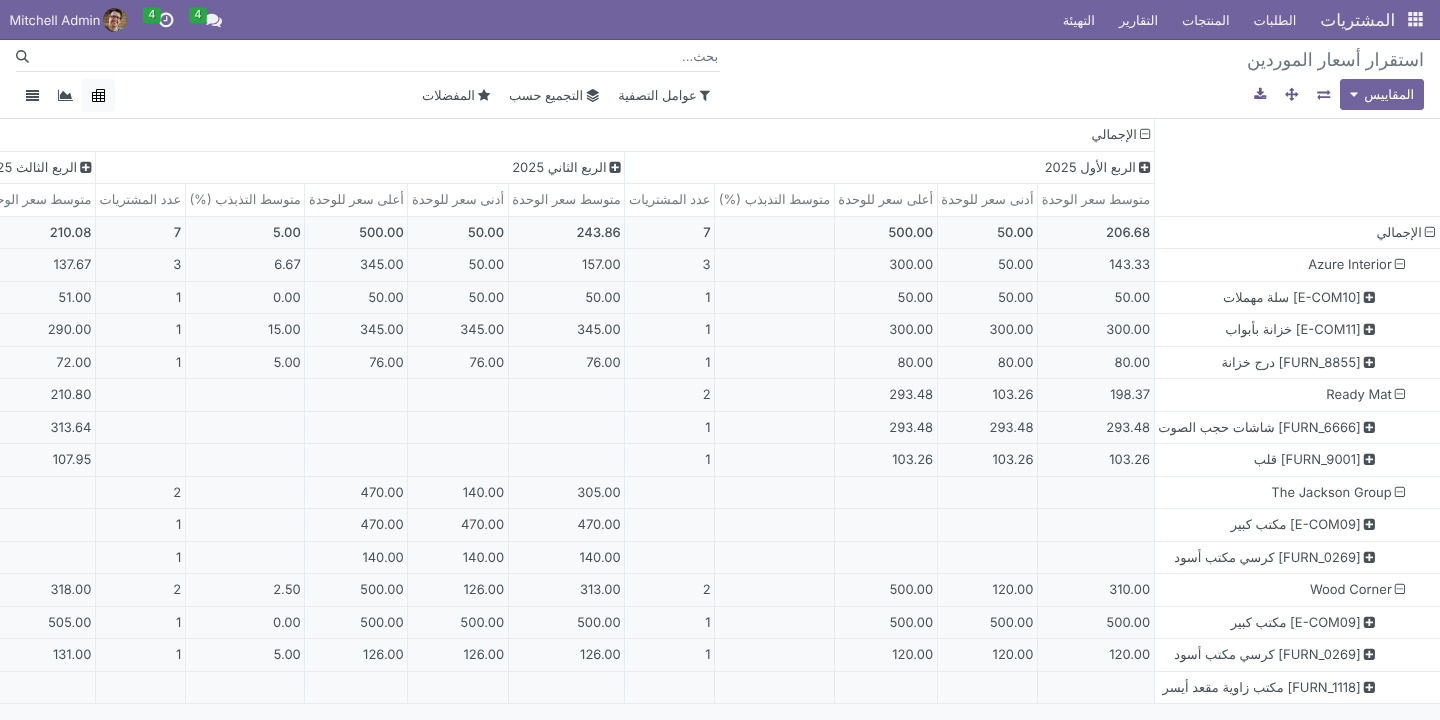
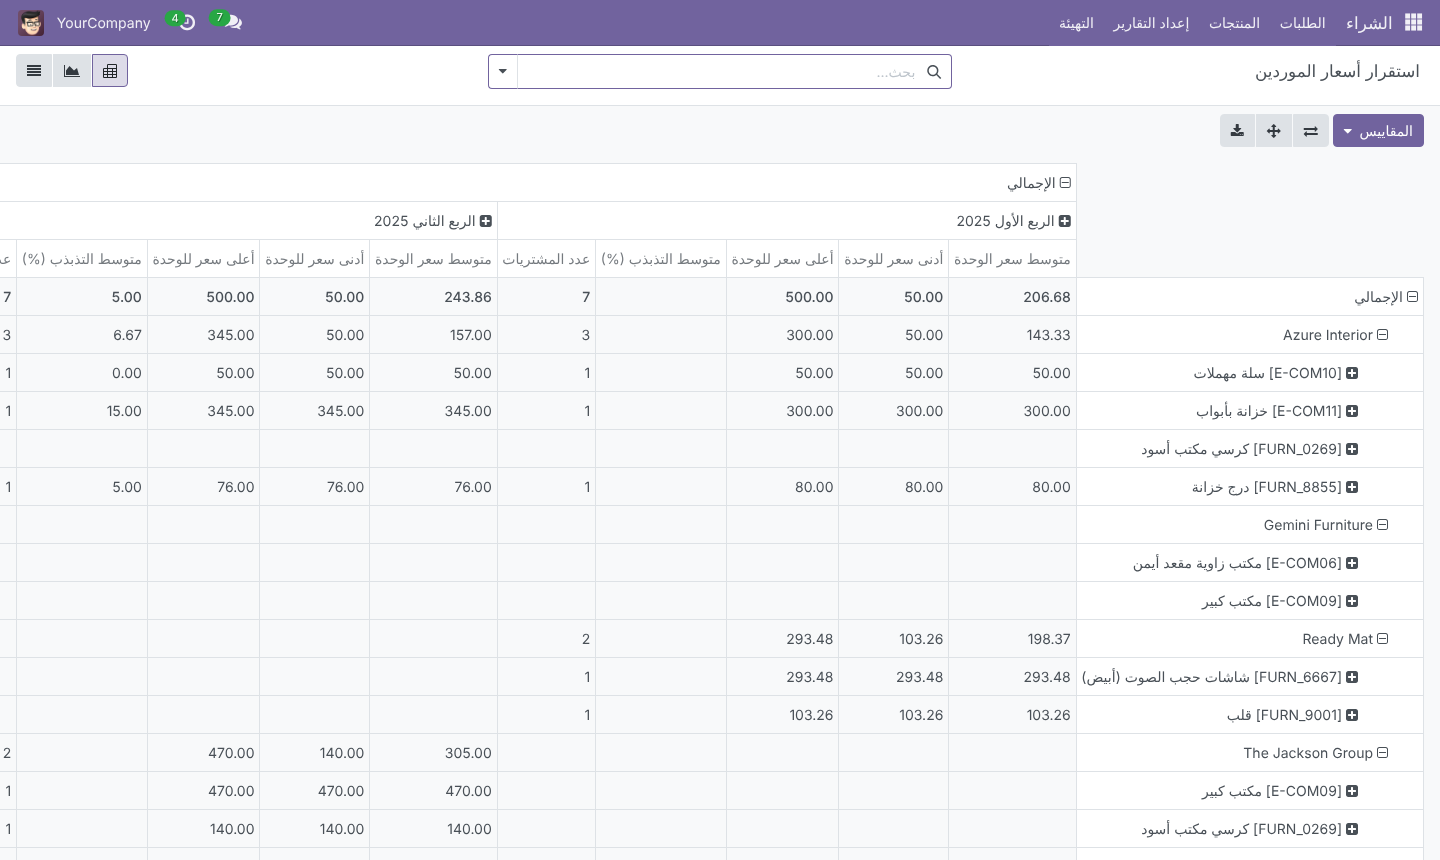
Add files via upload

diff --git a/last_purchase_price_advanced/static/description/index.html b/last_purchase_price_advanced/static/description/index.html
@@ -1,4 +1,4 @@
-<!-- Odoo Apps description page for last_purchase_price_advanced (Odoo 16.0). Inline styles only: apps.odoo.com strips <style> and <script> blocks. -->
+<!-- Odoo Apps description page for last_purchase_price_advanced (Odoo 18.0). Inline styles only: apps.odoo.com strips <style> and <script> blocks. -->
 <section style="max-width:1120px;margin:0 auto;padding:0 16px;font-family:-apple-system,BlinkMacSystemFont,'Segoe UI',Roboto,'Helvetica Neue',Arial,sans-serif;color:#2b2b33;">
 
   <!-- ============================== HERO ============================== -->
@@ -7,7 +7,7 @@
     <h1 style="font-size:40px;line-height:1.15;font-weight:700;margin:0 0 14px;color:#ffffff;">Last Purchase Price Advanced</h1>
     <p style="font-size:19px;line-height:1.55;max-width:760px;margin:0 0 24px;color:#ffffff;opacity:.95;">See the last confirmed purchase price on every RFQ line, converted to the line&rsquo;s unit of measure and currency, with the variance and a coloured up/down signal. Then measure how stable each vendor&rsquo;s prices really are with the Vendor Price Stability report in pivot, graph, Excel and PDF.</p>
     <div>
-      <span style="display:inline-block;border:1px solid rgba(255,255,255,.7);border-radius:20px;padding:6px 14px;margin:0 8px 8px 0;font-size:14px;">Odoo 16.0</span>
+      <span style="display:inline-block;border:1px solid rgba(255,255,255,.7);border-radius:20px;padding:6px 14px;margin:0 8px 8px 0;font-size:14px;">Odoo 18.0</span>
       <span style="display:inline-block;border:1px solid rgba(255,255,255,.7);border-radius:20px;padding:6px 14px;margin:0 8px 8px 0;font-size:14px;">Community &amp; Enterprise</span>
       <span style="display:inline-block;border:1px solid rgba(255,255,255,.7);border-radius:20px;padding:6px 14px;margin:0 8px 8px 0;font-size:14px;">25 automated tests</span>
       <span style="display:inline-block;border:1px solid rgba(255,255,255,.7);border-radius:20px;padding:6px 14px;margin:0 8px 8px 0;font-size:14px;">Arabic &amp; RTL</span>
@@ -29,7 +29,7 @@
   <p style="font-size:16px;color:#555;margin:0 0 18px;">Buyers negotiate better when they can see, on the line they are typing, what they paid last time.</p>
   <div style="display:flex;flex-wrap:wrap;margin:0 -10px;">
     <div style="flex:1 1 440px;margin:10px;border:1px solid #f1d6d6;background:#fff8f8;border-radius:14px;padding:24px 26px;">
-      <h3 style="font-size:19px;font-weight:700;color:#b33939;margin:0 0 12px;">In standard Odoo 16</h3>
+      <h3 style="font-size:19px;font-weight:700;color:#b33939;margin:0 0 12px;">In standard Odoo 18</h3>
       <ul style="font-size:15px;line-height:1.65;margin:0;padding-left:20px;color:#3a3a42;">
         <li>The RFQ line shows the <b>vendor pricelist</b> price, not what you actually paid on the last confirmed order.</li>
         <li>Checking the last price means leaving the RFQ and searching <b>Purchase Analysis</b> or old orders.</li>
@@ -64,7 +64,7 @@
 
   <!-- ============================== FEATURES ============================== -->
   <h2 style="font-size:28px;font-weight:700;margin:44px 0 6px;color:#2b2b33;">Features</h2>
-  <p style="font-size:16px;color:#555;margin:0 0 6px;">All screenshots were taken on Odoo 16 with Odoo&rsquo;s demo data plus 17 confirmed purchase orders from January 2025 to May 2026 (four vendors, one invoicing in EUR, pedal bins bought by the dozen) and four open RFQs.</p>
+  <p style="font-size:16px;color:#555;margin:0 0 6px;">All screenshots were taken on Odoo 18 with Odoo&rsquo;s demo data plus 17 confirmed purchase orders from January 2025 to May 2026 (four vendors, one invoicing in EUR, pedal bins bought by the dozen) and four open RFQs.</p>
 
   <div style="margin:44px 0 0;">
     <div style="font-size:13px;font-weight:700;color:#017E84;letter-spacing:1px;text-transform:uppercase;">Menus</div>
@@ -98,7 +98,7 @@
   <div style="margin:44px 0 0;">
     <div style="font-size:13px;font-weight:700;color:#017E84;letter-spacing:1px;text-transform:uppercase;">Feature 4</div>
     <h3 style="font-size:23px;font-weight:700;margin:4px 0 8px;">Compare alternative RFQs with their price history</h3>
-    <p style="font-size:15px;line-height:1.6;color:#555;margin:0 0 14px;">In <b>Alternatives &rsaquo; Compare Product Lines</b> (Purchase Agreements), each vendor&rsquo;s offer shows its own <b>Last Price</b>, <b>Var. %</b> and <b>Signal</b>, plus an optional <b>Last Vendor</b> column, so you choose the best offer knowing who raised prices.</p>
+    <p style="font-size:15px;line-height:1.6;color:#555;margin:0 0 14px;">In <b>Alternatives &rsaquo; Compare Product Lines</b> (Purchase Agreements; in Odoo 18 the <b>Alternatives</b> tab appears once <b>Purchase Alternatives</b> is enabled in Purchase settings), each vendor&rsquo;s offer shows its own <b>Last Price</b>, <b>Var. %</b> and <b>Signal</b>, plus an optional <b>Last Vendor</b> column, so you choose the best offer knowing who raised prices.</p>
     <img src="lpp_11_compare.png" alt="Compare Product Lines view with last price and signal per vendor" style="width:100%;border:1px solid #e1e1e6;border-radius:10px;box-shadow:0 6px 24px rgba(30,30,60,.10);"/>
   </div>
 
@@ -203,7 +203,7 @@
   <h2 style="font-size:28px;font-weight:700;margin:44px 0 6px;color:#2b2b33;">Technical details</h2>
   <table style="width:100%;border-collapse:collapse;font-size:15px;table-layout:fixed;overflow-wrap:anywhere;">
     <tbody>
-      <tr style="border-bottom:1px solid #eee;"><td style="padding:10px 14px;width:34%;color:#777;">Odoo version</td><td style="padding:10px 14px;">16.0, Community and Enterprise</td></tr>
+      <tr style="border-bottom:1px solid #eee;"><td style="padding:10px 14px;width:34%;color:#777;">Odoo version</td><td style="padding:10px 14px;">18.0, Community and Enterprise</td></tr>
       <tr style="border-bottom:1px solid #eee;background:#fafafa;"><td style="padding:10px 14px;width:34%;color:#777;">Depends on</td><td style="padding:10px 14px;overflow-wrap:anywhere;"><code>purchase</code>, <code>purchase_requisition</code></td></tr>
       <tr style="border-bottom:1px solid #eee;"><td style="padding:10px 14px;width:34%;color:#777;">Python dependency</td><td style="padding:10px 14px;overflow-wrap:anywhere;"><code>xlsxwriter</code> (already in Odoo&rsquo;s requirements)</td></tr>
       <tr style="border-bottom:1px solid #eee;background:#fafafa;"><td style="padding:10px 14px;width:34%;color:#777;">Menus</td><td style="padding:10px 14px;">Purchase &rsaquo; Reporting &rsaquo; Vendor Price Stability; Purchase &rsaquo; Reporting &rsaquo; Vendor Price Stability (PDF / Excel)</td></tr>

diff --git a/last_purchase_price_advanced/models/lpp_vendor_price_report.py b/last_purchase_price_advanced/models/lpp_vendor_price_report.py
@@ -1,5 +1,6 @@
 # -*- coding: utf-8 -*-
 from odoo import api, fields, models, tools
+from odoo.tools import SQL
 
 TRENDS = [
     ('first', 'First Purchase'),
@@ -33,23 +34,23 @@ class LppVendorPriceReport(models.Model):
     user_id = fields.Many2one('res.users', 'Buyer', readonly=True)
 
     order_price_unit = fields.Float('Order Unit Price', digits='Product Price',
-                                    readonly=True, group_operator='avg')
+                                    readonly=True, aggregator='avg')
     currency_rate = fields.Float('Currency Rate', digits=(16, 6),
-                                 readonly=True, group_operator='avg')
+                                 readonly=True, aggregator='avg')
     unit_price = fields.Float('Avg Unit Price', digits='Product Price',
-                              readonly=True, group_operator='avg')
+                              readonly=True, aggregator='avg')
     min_price = fields.Float('Min Unit Price', digits='Product Price',
-                             readonly=True, group_operator='min')
+                             readonly=True, aggregator='min')
     max_price = fields.Float('Max Unit Price', digits='Product Price',
-                             readonly=True, group_operator='max')
+                             readonly=True, aggregator='max')
     previous_price = fields.Float('Previous Unit Price', digits='Product Price',
-                                  readonly=True, group_operator='avg')
+                                  readonly=True, aggregator='avg')
     price_change = fields.Float('Price Change', digits='Product Price',
-                                readonly=True, group_operator='avg')
+                                readonly=True, aggregator='avg')
     variance_pct = fields.Float('Variance (%)', digits=(16, 2),
-                                readonly=True, group_operator='avg')
+                                readonly=True, aggregator='avg')
     abs_variance_pct = fields.Float('Avg Fluctuation (%)', digits=(16, 2),
-                                    readonly=True, group_operator='avg')
+                                    readonly=True, aggregator='avg')
     qty = fields.Float('Quantity', digits='Product Unit of Measure',
                        readonly=True)
     amount = fields.Monetary('Purchased Amount', readonly=True)
@@ -157,11 +158,12 @@ class LppVendorPriceReport(models.Model):
         self.env.flush_all()
         query = self._where_calc(domain)
         self._apply_ir_rules(query, 'read')
-        from_clause, where_clause, where_params = query.get_sql()
-        where_sql = where_clause and ('WHERE %s' % where_clause) or ''
+        # Odoo 18: Query.get_sql() is gone; build the statement with
+        # Query.select() so the WHERE clause and its parameters stay SQL objects.
         tbl = '"%s"' % self._table
-        self.env.cr.execute("""
-            SELECT {t}.company_id, {t}.partner_id, {t}.product_id,
+        query.groupby = SQL("{t}.company_id, {t}.partner_id, {t}.product_id".format(t=tbl))
+        self.env.cr.execute(query.select(SQL("""
+                   {t}.company_id, {t}.partner_id, {t}.product_id,
                    MIN({t}.currency_id)                      AS currency_id,
                    MIN({t}.uom_id)                           AS uom_id,
                    COUNT(*)                                  AS nbr,
@@ -180,10 +182,7 @@ class LppVendorPriceReport(models.Model):
                    SUM({t}.qty)                              AS qty,
                    SUM({t}.amount)                           AS amount,
                    AVG({t}.abs_variance_pct)                 AS avg_fluctuation
-              FROM {from_clause}
-              {where}
-          GROUP BY {t}.company_id, {t}.partner_id, {t}.product_id
-        """.format(t=tbl, from_clause=from_clause, where=where_sql), where_params)
+        """.format(t=tbl))))
         raw_rows = self.env.cr.dictfetchall()
 
         partners = self.env['res.partner'].browse({r['partner_id'] for r in raw_rows})

diff --git a/last_purchase_price_advanced/tests/test_vendor_price_report.py b/last_purchase_price_advanced/tests/test_vendor_price_report.py
@@ -33,6 +33,9 @@ class TestVendorPriceReport(LppCommon):
                                    ('product_id', '=', self.product.id)], order='date, id')
 
     def _rows(self, **wizard_vals):
+        # Scope to the test category: demo databases (Odoo 17 loads demo
+        # purchase orders by default) must not leak into the assertions.
+        wizard_vals.setdefault('categ_ids', [(6, 0, self.categ.ids)])
         wizard = self.env['lpp.stability.wizard'].create(wizard_vals)
         return wizard, {(r['partner'], r['product']): r for r in wizard._get_stability_rows()}
 
@@ -112,7 +115,8 @@ class TestVendorPriceReport(LppCommon):
             self.company.write({'lpp_stable_cv': 20.0, 'lpp_volatile_cv': 5.0})
 
     def test_07_excel_export(self):
-        wizard = self.env['lpp.stability.wizard'].create({})
+        wizard = self.env['lpp.stability.wizard'].create({
+            'categ_ids': [(6, 0, self.categ.ids)]})
         action = wizard.action_export_xlsx()
         self.assertEqual(action['type'], 'ir.actions.act_url')
         content = base64.b64decode(wizard.excel_file)

diff --git a/last_purchase_price_advanced/models/purchase_order_line.py b/last_purchase_price_advanced/models/purchase_order_line.py
@@ -295,7 +295,7 @@ class PurchaseOrderLine(models.Model):
             'name': _('Price Stability: %s', self.product_id.display_name),
             'domain': domain,
             'views': [
-                (self.env.ref('last_purchase_price_advanced.lpp_vendor_price_report_view_tree').id, 'tree'),
+                (self.env.ref('last_purchase_price_advanced.lpp_vendor_price_report_view_tree').id, 'list'),
                 (self.env.ref('last_purchase_price_advanced.lpp_vendor_price_report_view_graph').id, 'graph'),
                 (self.env.ref('last_purchase_price_advanced.lpp_vendor_price_report_view_pivot').id, 'pivot'),
             ],

diff --git a/last_purchase_price_advanced/__manifest__.py b/last_purchase_price_advanced/__manifest__.py
@@ -1,7 +1,7 @@
 # -*- coding: utf-8 -*-
 {
     'name': 'Last Purchase Price Advanced',
-    'version': '16.0.1.0.0',
+    'version': '18.0.1.0.0',
     'category': 'Inventory/Purchase',
     'summary': 'Last purchase price on PO lines with UoM / multi-currency '
                'normalization, variance signals and a Vendor Price Stability '

diff --git a/last_purchase_price_advanced/README.md b/last_purchase_price_advanced/README.md
@@ -1,4 +1,4 @@
-# Last Purchase Price Advanced (Odoo 16 Community & Enterprise)
+# Last Purchase Price Advanced (Odoo 18 Community & Enterprise)
 
 Price intelligence for purchasing: every PO line shows the last confirmed
 purchase price, normalized to the line's unit of measure and currency, with a
